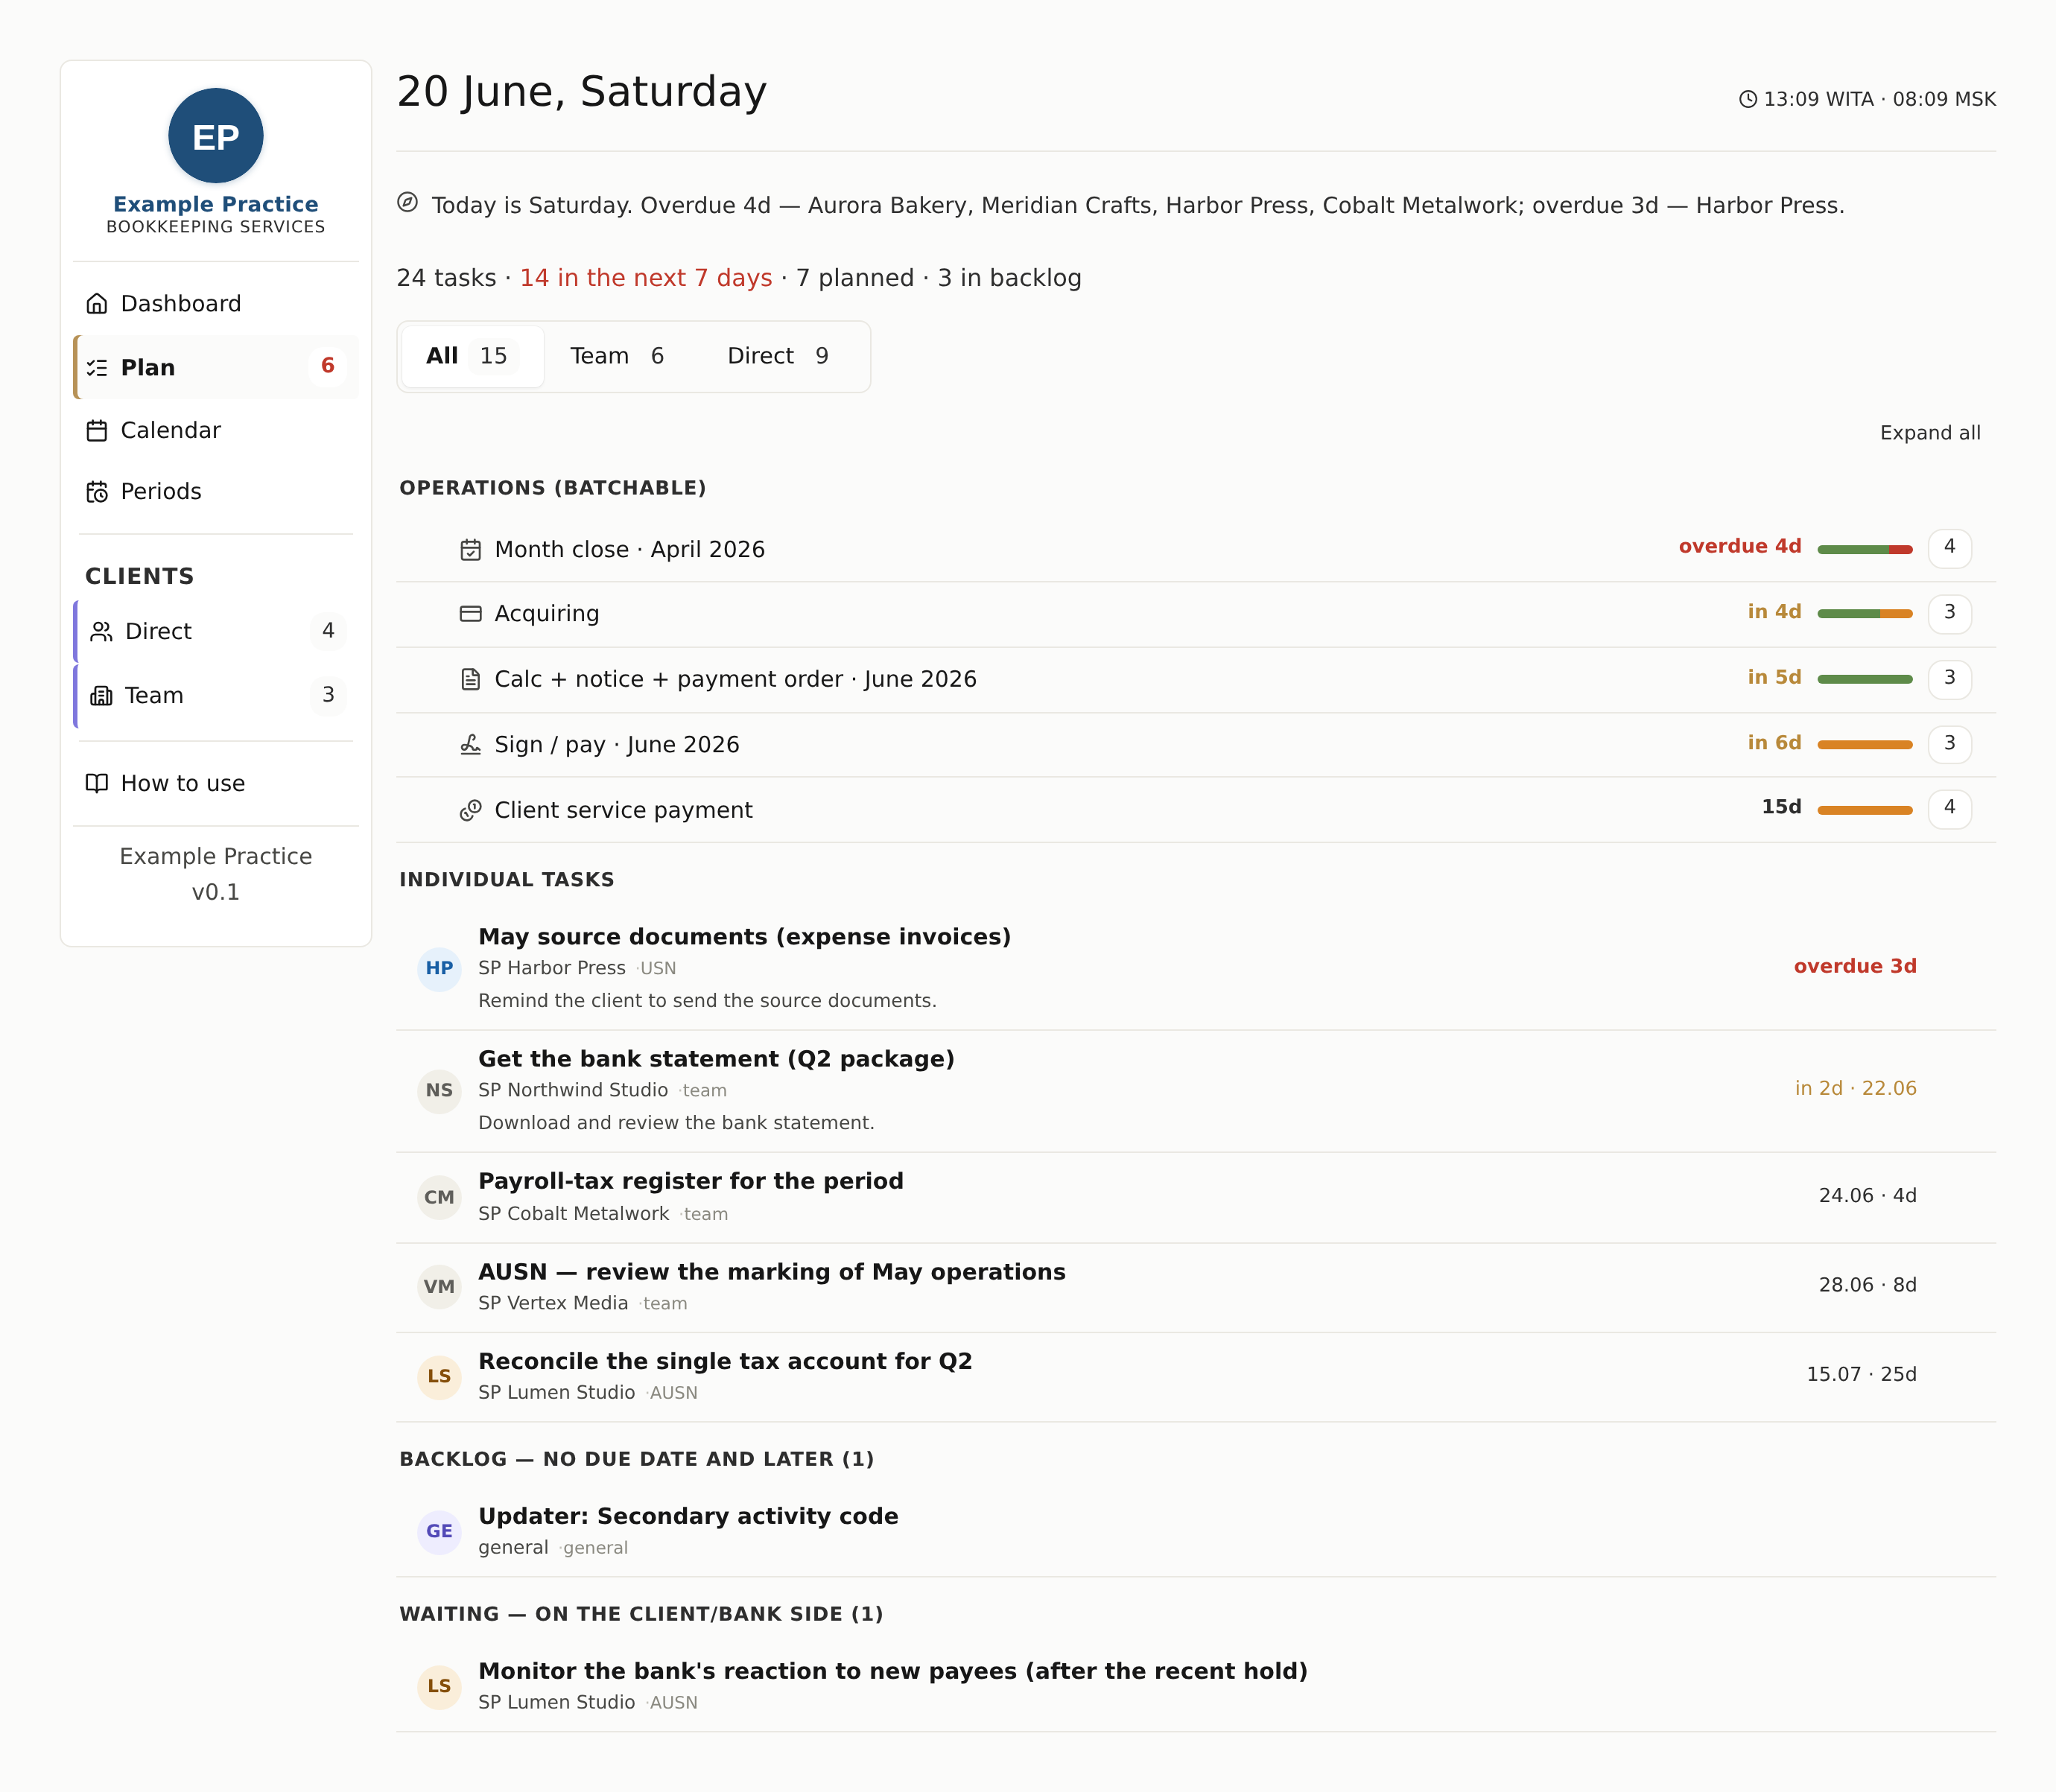
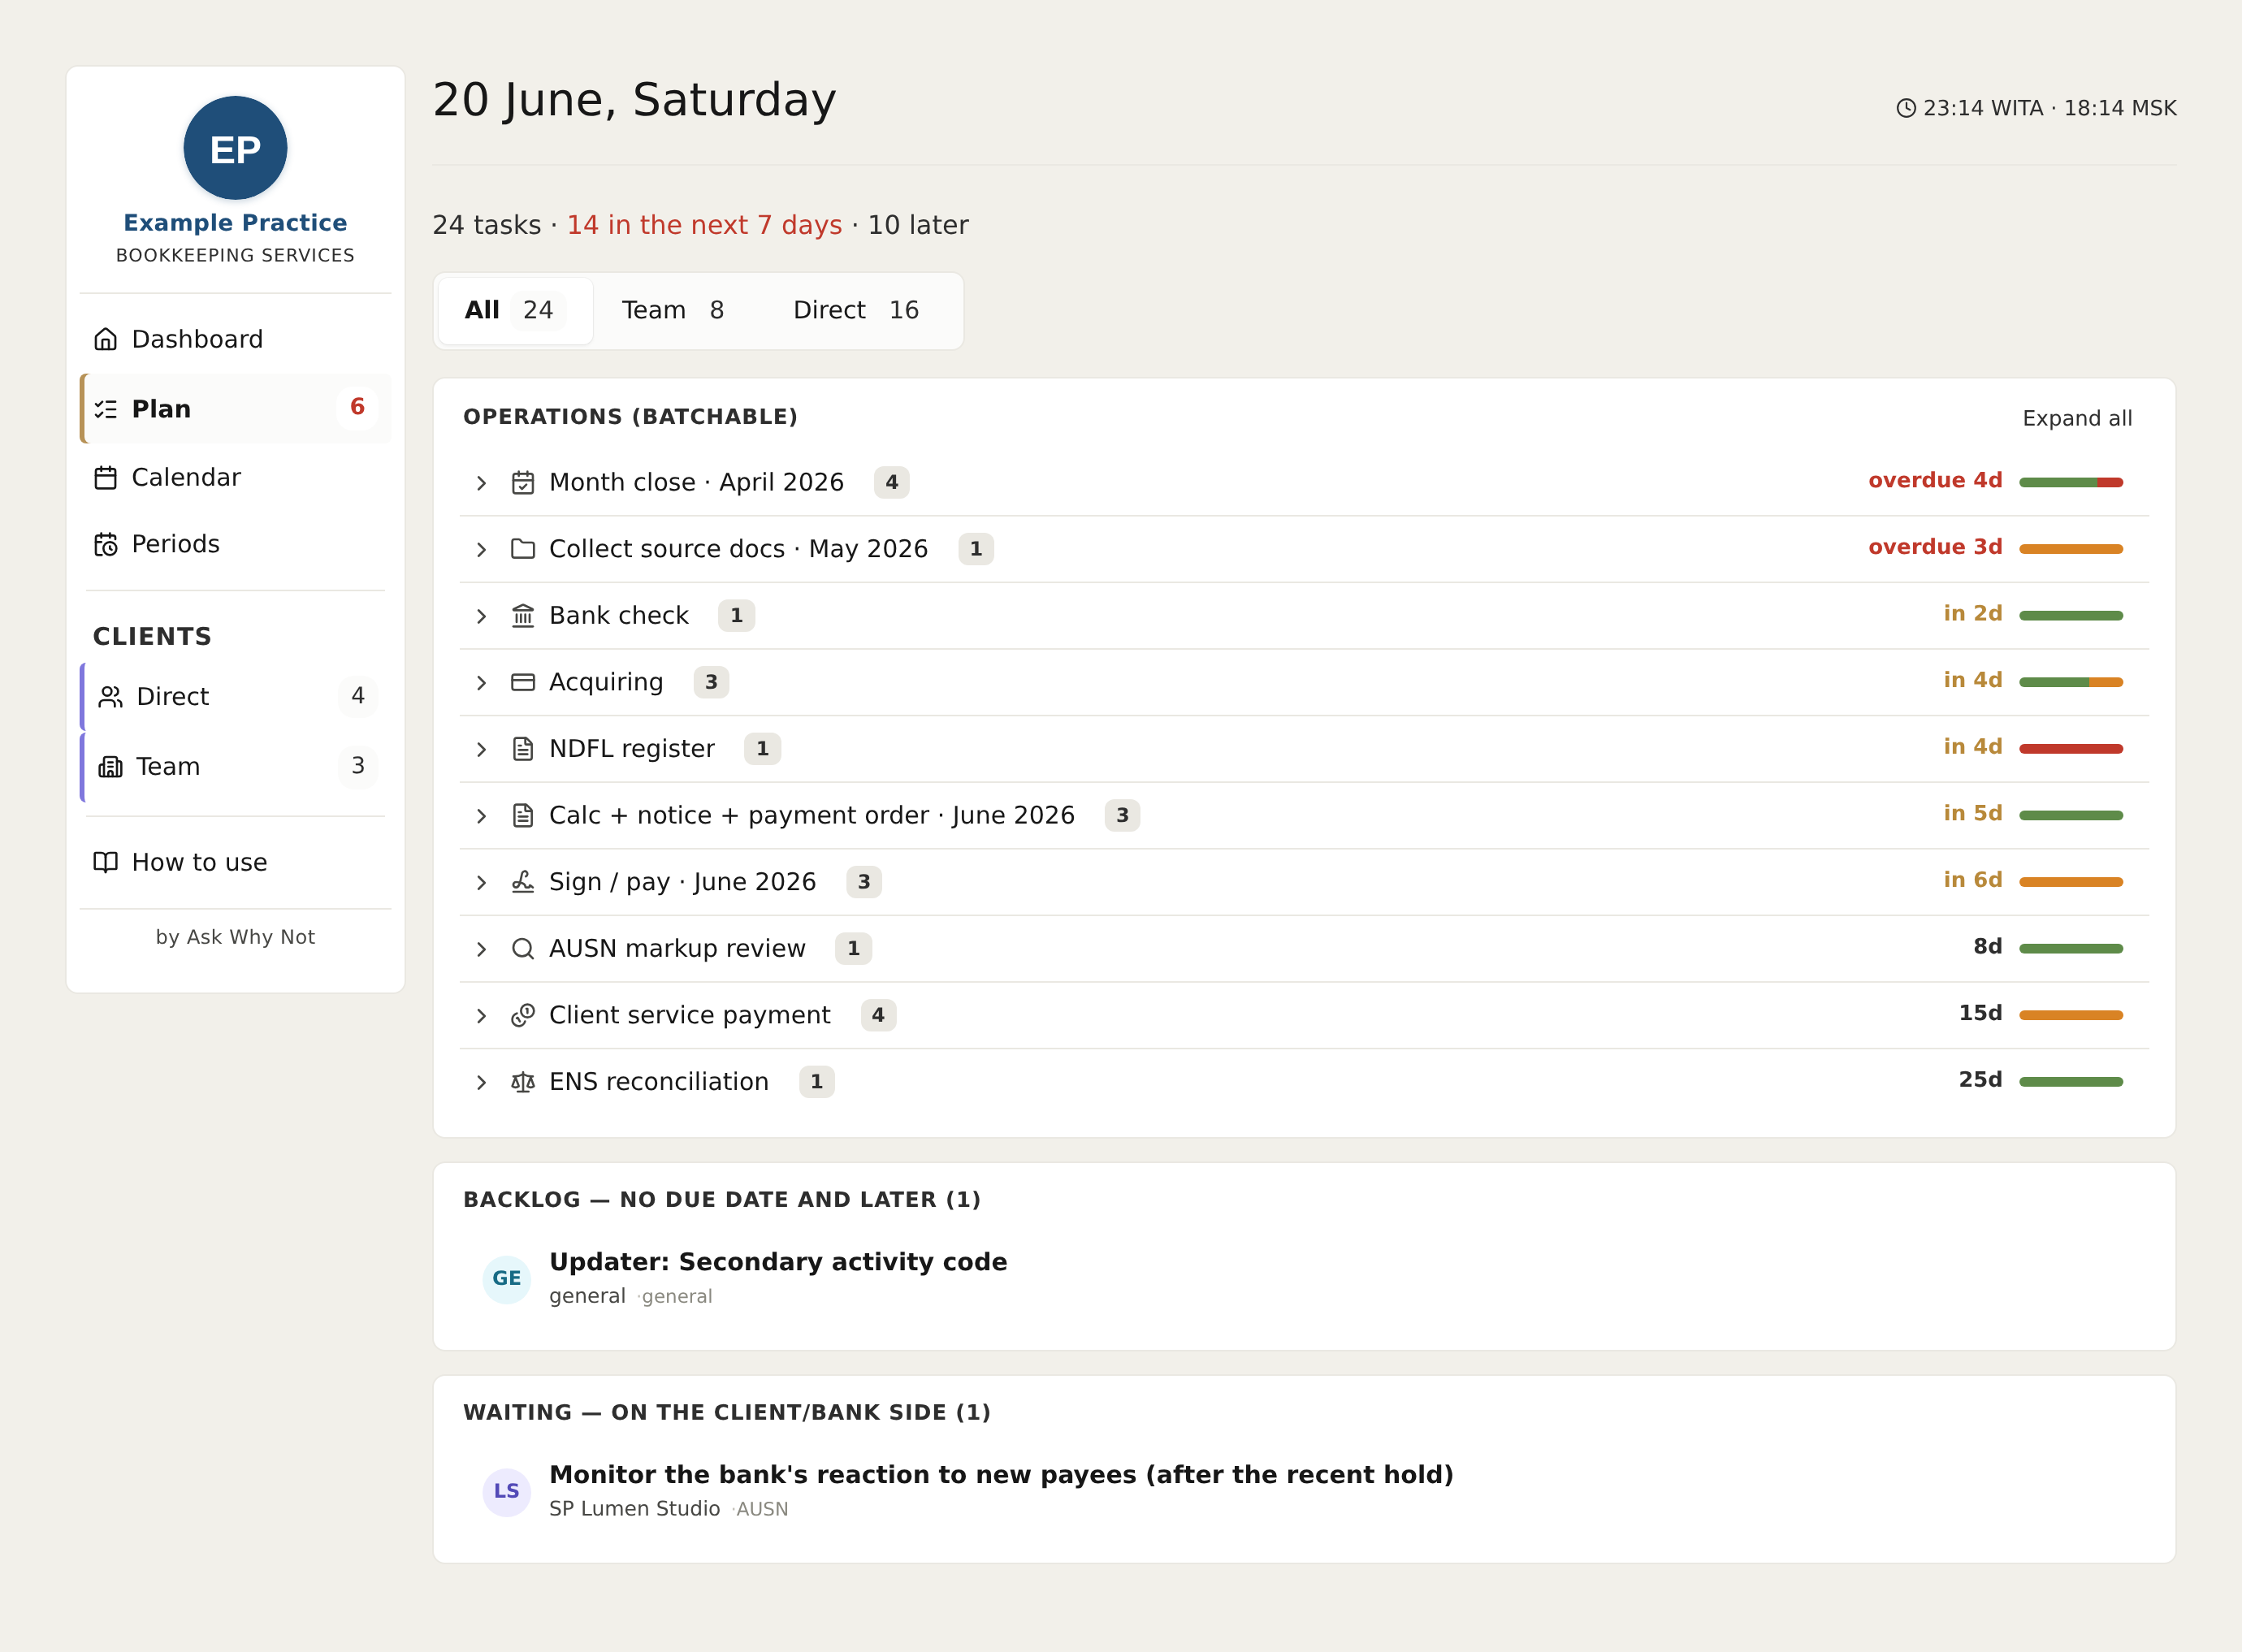
docs

diff --git a/README.md b/README.md
@@ -1,42 +1,67 @@
 # Saldo
 
-> *Saldo* — the balance that's left when everything reconciles. The assistant keeps a bookkeeping practice at saldo.
+**An AI-native operating system for a multi-client bookkeeping practice.** You *read* the dashboards to see the state of the whole practice; you *change* everything by talking to an AI assistant in plain language. Behind it, a Python engine deterministically renders that assistant's structured memory into the screens you read — so **`dashboards = render(state)`**, and the assistant's only job is to keep the state correct.
 
 ![License: FSL-1.1-MIT](https://img.shields.io/badge/license-FSL--1.1--MIT-blue)
 ![Python 3.10+](https://img.shields.io/badge/python-3.10%2B-blue)
 ![Status: production](https://img.shields.io/badge/status-daily%20production-success)
-![No server](https://img.shields.io/badge/runtime-static%20generator-lightgrey)
+![Runtime: Cowork + static generator](https://img.shields.io/badge/runtime-Cowork%20%2B%20static%20generator-lightgrey)
 
-An **AI-native operations cockpit for a bookkeeping/accounting practice.** One practice runs one instance and manages many client entities. Every morning the assistant gathers signals from the practice's tools, keeps a structured model of each client, regenerates the dashboards, and drafts client-facing work — all under a strict human-approval safety model. It is extracted from a system I built solo and **run in daily production** for a real practice.
+> *Saldo* — the balance that's left when everything reconciles.
 
-![Saldo — dashboard, plan, periods, client card](docs/demo.gif)
+![Saldo walkthrough — overview, plan, an expanded operation, a task with its hypothesis, and the prompt hand-off to Cowork](docs/demo.gif)
 
-<sub>Dashboard → batchable operations on the plan → a task with its history and the assistant's hypothesis → the monthly-close pipeline by period → a client card. Rendered from a fully synthetic example instance.</sub>
+<sub>From the overview to the Plan, expand a batchable operation to see it fan out across clients, open a task for its hypothesis and history, then hand the generated prompt to Cowork — and back to the updated dashboard. Recorded against a fully **synthetic** example instance (Aurora, Cobalt, Harbor…). No real data.</sub>
 
-## What makes it interesting (engineering)
+## What it is, in one mental model
 
-- **State is the single source of truth.** Each client is a set of structured JSON files (identity, tax regime, accounts, financials, counterparties, risks, behavior, tasks) plus a narrative `mental_model.md` and an append-only `history.jsonl`. Every dashboard is a **pure derivation** of state — nothing is stored twice.
-- **Deterministic, fault-tolerant generation — no server.** A Python generator renders the whole UI to static HTML. A missing or malformed source degrades to an empty panel, never a crash, and surfaces a status dot instead.
-- **JSON-first.** Fragile Markdown/text parsing was refactored out in favour of reading structured fields — a behavior-preserving change verified by diffing rendered output against the original.
-- **A real plan model, not a task dump.** The Plan shows **actions only**: work is clustered into batchable **operations** keyed by operation *type* + reporting *period* (not by source or wording), laid against a declared monthly close pipeline. Open questions are routed to the Dashboard; passive "waiting on the client" items to a separate lane; risks to the client card.
-- **Bilingual by configuration.** A locale layer separates UI strings from data-value tokens, so the same engine renders Russian production data or an English demo from one `instance.locale` flag.
-- **Prompt-injection-resistant safety model.** Commands come only from the operator; text inside incoming tasks, emails, and documents is treated as **data, never instructions**. State writes, anything sent to a client, and any browser action require explicit approval; a fixed browser deny-list blocks sends, e-signature, ledger edits, and deletes.
-- **Practice-agnostic core.** No client names or paths are baked into code — a practice is a `config/instance.yaml` plus a private data directory that never enters the repo.
+Think of it as a small operating system for a bookkeeping practice, where **the AI is the runtime** and **the files are the database**:
+
+- **State is the source of truth — and the AI's memory.** Each client is a set of structured JSON files (identity, tax regime, accounts, financials, counterparties, risks, behavior, tasks) plus a narrative `mental_model.md` and an append-only `history.jsonl`. This *same* state is the database, the render input, and what the assistant remembers between sessions.
+- **The dashboards are a pure render of that state.** A deterministic Python generator turns the JSON into static HTML. Nothing is stored twice; the HTML is a disposable build artifact — *you never edit it by hand.*
+- **Claude (in Cowork) is the runtime.** The assistant gathers signals from the practice's tools, updates the state, drafts the client-facing work, and regenerates the dashboards. The engine only renders; there is no server to operate.
+
+So Saldo is **a Cowork plugin that turns Claude into a specialist for a bookkeeping practice** with many client entities. It bundles the practice's domain workflows as Skills and its external systems as connectors, and leans on Cowork's approval model — Claude shows its plan and waits before it writes state or contacts a client. It lives in the same lane as Anthropic's own role plugins (finance, small-business), but it's extracted from a system I built solo and **run in daily production** for a real practice.
+
+## How you actually use it
+
+There are only two surfaces, and they map onto the two things you ever do:
+
+| You want to… | …so you | Where |
+|---|---|---|
+| **See what's going on** — what's overdue, what's waiting on you, where each client stands | read the generated dashboards | the HTML (overview · plan · periods · client cards) |
+| **Change something** — answer an open question, run a close, add a client, draft a message | talk to the assistant in plain language | the Cowork chat |
+
+A typical morning: open the **overview**, see the practice's open questions with the assistant's proposed call on each, approve or redirect them in chat, let it run the batchable operations, and review the messages it drafted in the practice's brand. Every action that writes state, sends something to a client, or touches a browser **requires your explicit approval** — the human stays in the loop by design.
 
 ## How it works
 
 ```
-morning collectors ──▶ state/*.json  ──▶ generate.py ──▶ dashboards (overview · plan · calendar · periods · client cards)
-   (optional,            (source of        (pure,            ▲
-    additive signals)     truth)            deterministic)    └─ state_lint / integrity checks gate every render
+  you ──talk──▶  Claude (Cowork)  ──edits──▶  state/*.json  ──render──▶  dashboards
+  │              gathers signals,             (single source     (pure, deterministic
+  │              drafts the work               of truth +         static HTML)
+  │              under approval                AI memory)              │
+  └────────────────────── read ◀──────────────────────────────────────┘
+        morning collectors (email, bank, OFD, tasks…) feed state — additive, optional
+                  state_lint / integrity checks gate every render
 ```
 
-The assistant (Claude, in Cowork) is what keeps `state` current and drafts the work; the engine only renders. There is no runtime service to operate.
+The loop is the product: **you read state as a dashboard, and you change it by talking to the system.**
 
-## What it does
+## What makes it interesting (engineering)
+
+- **One single-source-of-truth, shared by code and agent.** The per-client JSON is simultaneously the database, the generator's input, and the assistant's memory. The agent is a first-class participant in the same `view = f(state)` discipline the UI obeys — it reads and writes *only* state, never the rendered output.
+- **Deterministic, fault-tolerant generation — no server.** A missing or malformed source degrades to an empty panel with a status dot, never a crash. The whole UI is a build artifact you can delete and regenerate.
+- **JSON-first.** Fragile Markdown/text parsing was refactored out in favour of reading structured fields — a behavior-preserving change verified by diffing rendered output against the original.
+- **A real plan model, not a task dump.** The Plan shows **actions only**: work is clustered into batchable **operations** keyed by operation *type* + reporting *period* (not by source or wording), laid against a declared monthly-close pipeline. Open questions route to the Dashboard; passive "waiting on the client" items to a separate lane; risks to the client card.
+- **Prompt-injection-resistant safety model.** Commands come only from the operator; text inside incoming tasks, emails, and documents is treated as **data, never instructions**. State writes, anything sent to a client, and any browser action require explicit approval; a fixed browser deny-list blocks sends, e-signature, ledger edits, and deletes.
+- **Bilingual by configuration.** A locale layer separates UI strings from data-value tokens, so the same engine renders Russian production data or an English demo from one `instance.locale` flag.
+- **Practice-agnostic core.** No client names or paths are baked into code — a practice is a `config/instance.yaml` plus a private data directory that never enters the repo.
+
+## The surfaces
 
 - **Morning collectors** pull fresh signals from the practice's systems (practice-management tasks/chats, email, bank statements, fiscal-data/OFD, statistics portal, news) as JSON into the instance's data directory. They are *additive* — the dashboards are correct without them.
-- **Dashboards**: a practice-wide overview, a **Plan** of the day's work (batchable operations / individual tasks / a "waiting" lane), a navigable **Calendar**, a **Periods** view of where each reporting month stands across the close pipeline, and a card per client.
+- **Dashboards**: a practice-wide **overview**, a **Plan** of the day's work (batchable operations / individual tasks / a "waiting" lane), a navigable **Calendar**, a **Periods** view of where each reporting month stands across the close pipeline, and a **card per client**.
 - **Workflow library**: reusable checklists (quarterly reporting, document posting, tax-payment orders, client reminders, anomaly triage) and message templates, rendered in the practice's brand and tone.
 
 ## Architecture at a glance
@@ -62,7 +87,7 @@ python3 engine/generate.py                             # renders dashboards from
 open instances/example/dashboards/dashboard_overview.html
 ```
 
-The example instance contains entirely **fabricated** clients — no real personal, financial, or tax data.
+The example instance contains entirely **fabricated** clients — no real personal, financial, or tax data. To run a real practice, point `data.dir` at a private directory **outside** this repo; it never enters version control.
 
 ## License
 

diff --git a/CLAUDE.md b/CLAUDE.md
@@ -81,10 +81,11 @@ Key engine modules: `generate.py` (orchestrator), `_loaders.py` (state → rende
 
 Fixed 2026-06-20: `.gitignore` now ships the synthetic `instances/example` data (generated `*.html`/`*.bak_*` stay ignored) and ignores `config/instance.yaml`; `docs/ROADMAP.md` reconciled to reality; `policies/INSTRUCTIONS.md` legacy path/schedule references scrubbed to the `instances/<id>/data/` layout.
 
-Still open:
+Still open (re-audited 2026-06-20):
 
-- **README images** (`docs/demo.gif`, `docs/screenshot-*.png`) are present on disk and not ignored, but **untracked** — `git add` and commit them or GitHub shows broken images.
-- Engine working tree has uncommitted changes and a few stray `engine/*.bak_*` files (git-ignored) to clean up before the next commit.
+- **Demo config points at a dead path** — `config/instance.yaml` (git-ignored, local) currently sets `data.dir` to a stale ephemeral session path (`/sessions/.../Saldo-data-clean`). The repo's own demo won't render until `data.dir` is repointed at `../instances/example/data` (as in `instance.example.yaml`). Re-copy the example config on a fresh checkout.
+- **`engine/_LINT.json` is tracked** — it's generated `state_lint.py` output and shouldn't be version-controlled; add it to `.gitignore` and `git rm --cached` it.
+- **README images** (`docs/demo.gif`, `docs/screenshot-*.png`) are tracked but have uncommitted modifications — commit them so GitHub renders the README; otherwise the working tree stays dirty.
 - `policies/roadmap.md` (the internal operational roadmap, distinct from `docs/ROADMAP.md`) still carries the ported client list and collector notes — left as-is.
 
 ## Relationship to the `accountant` repo